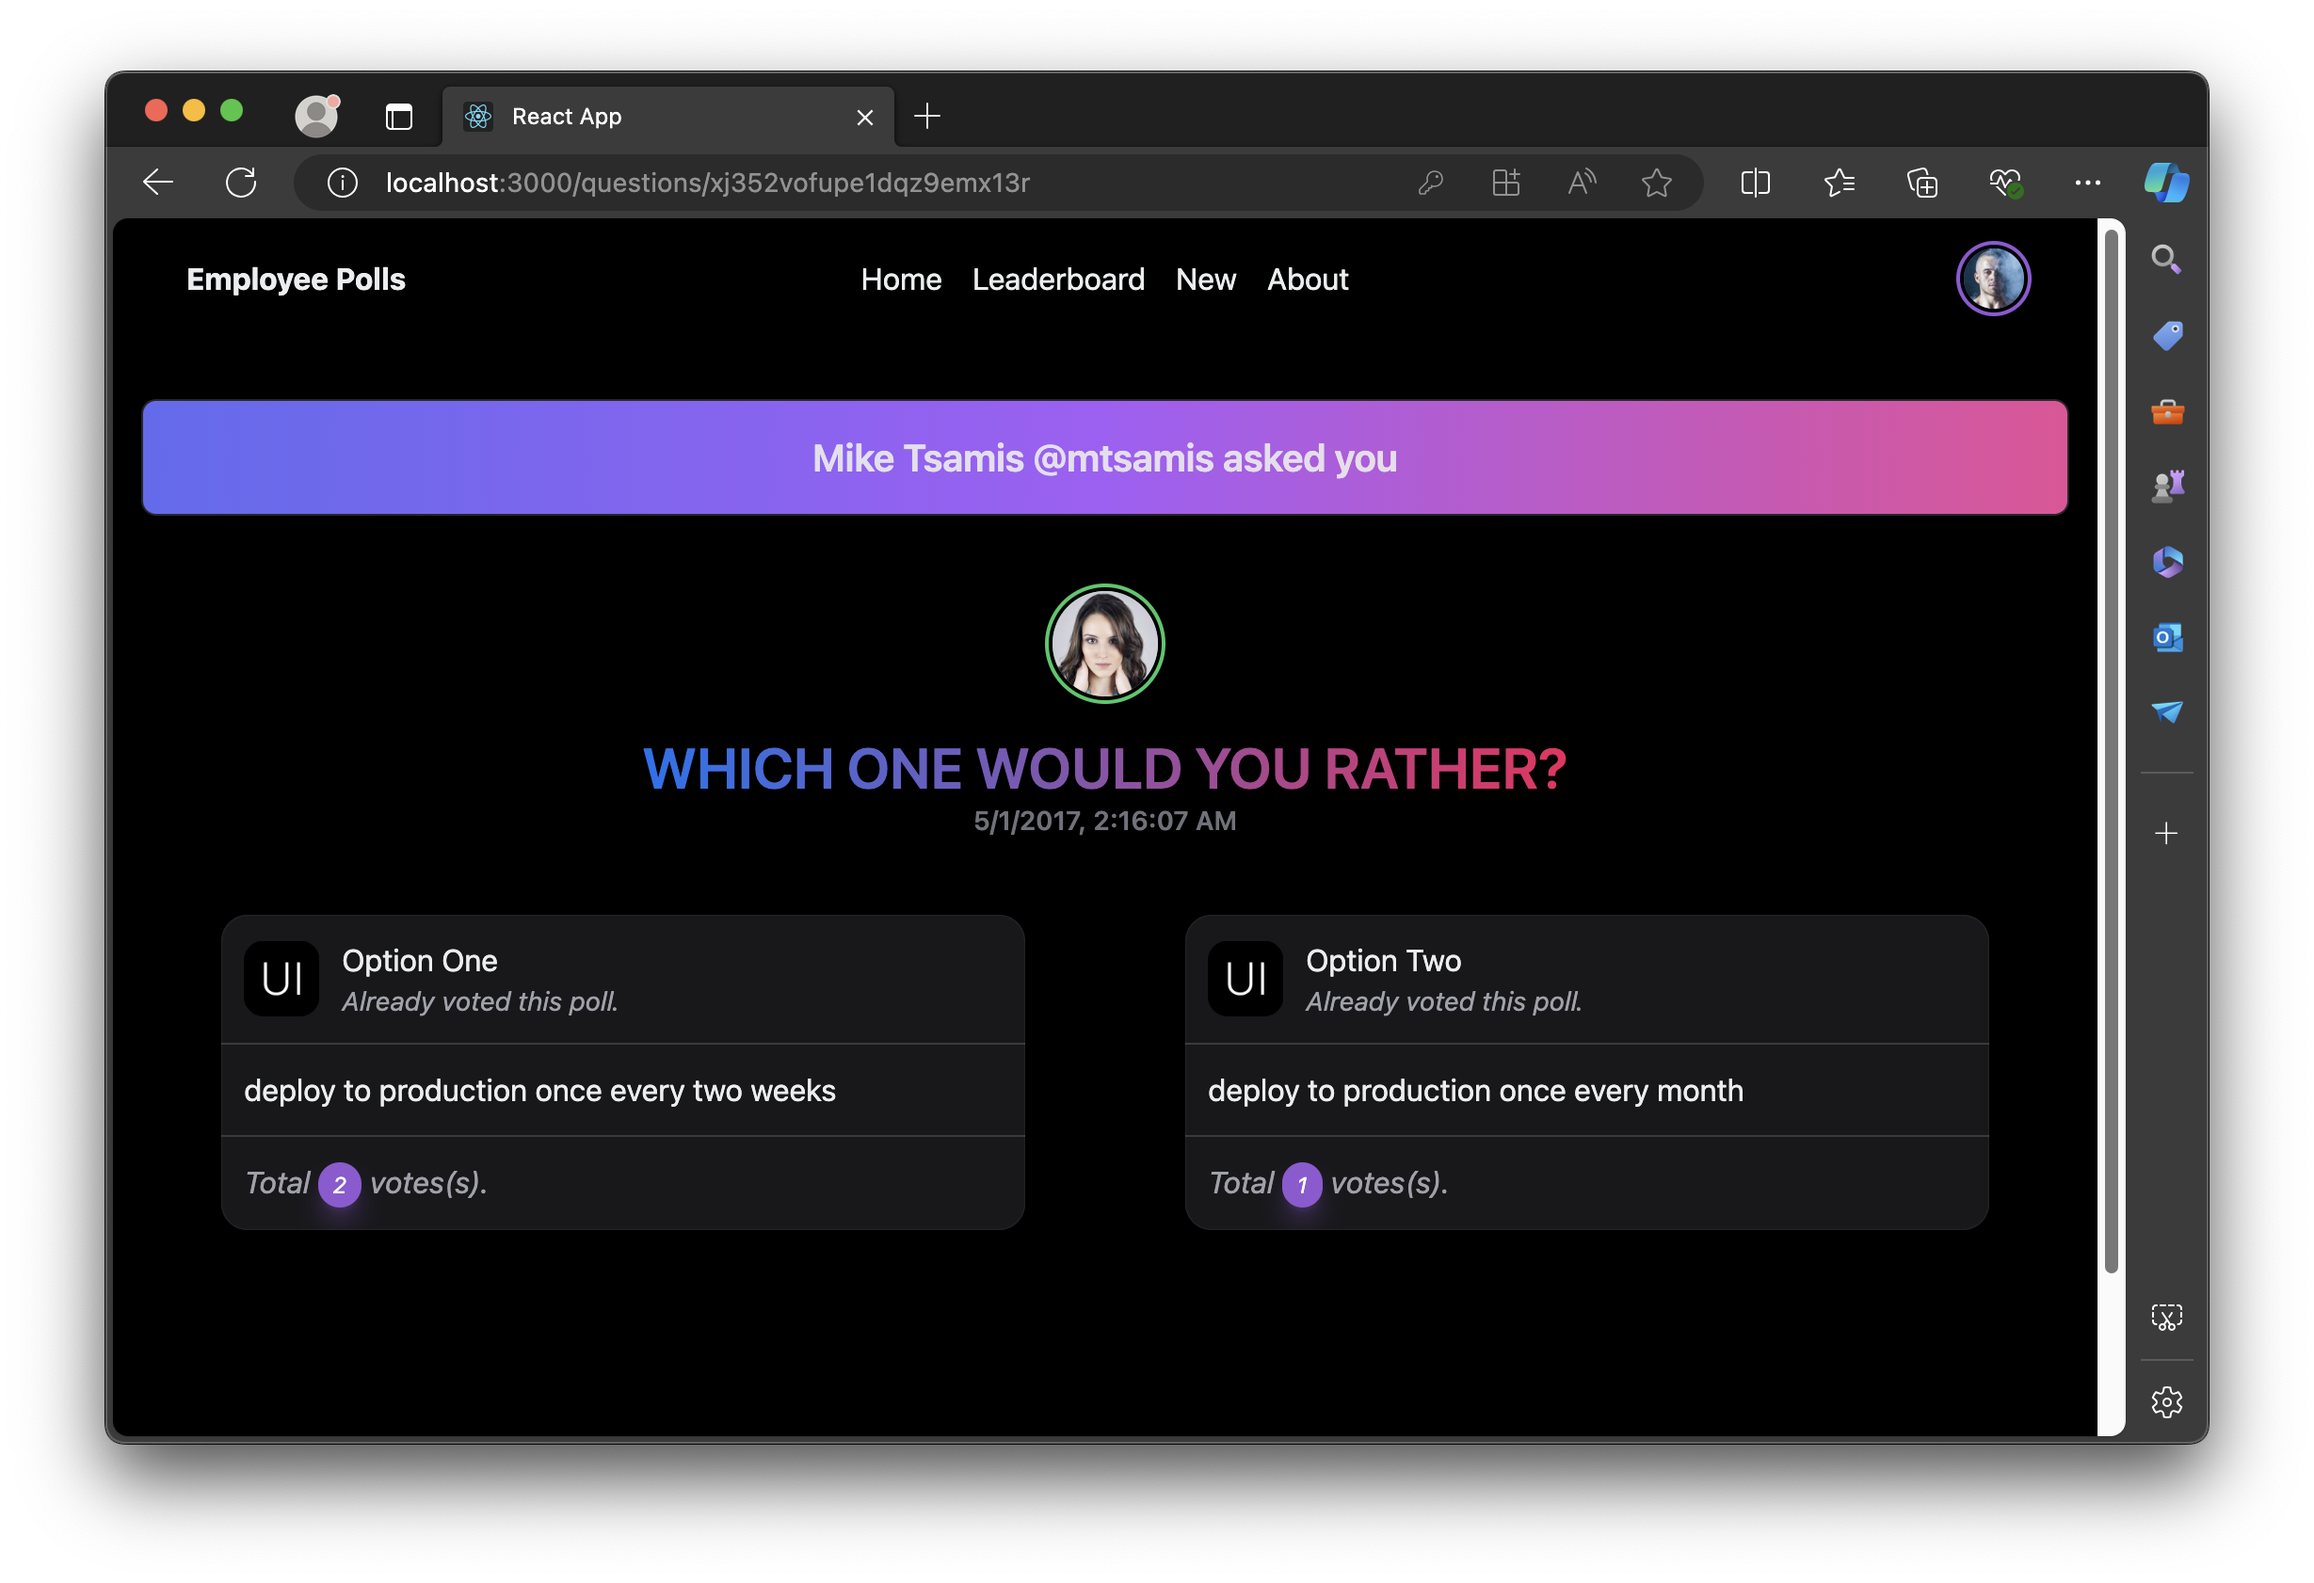
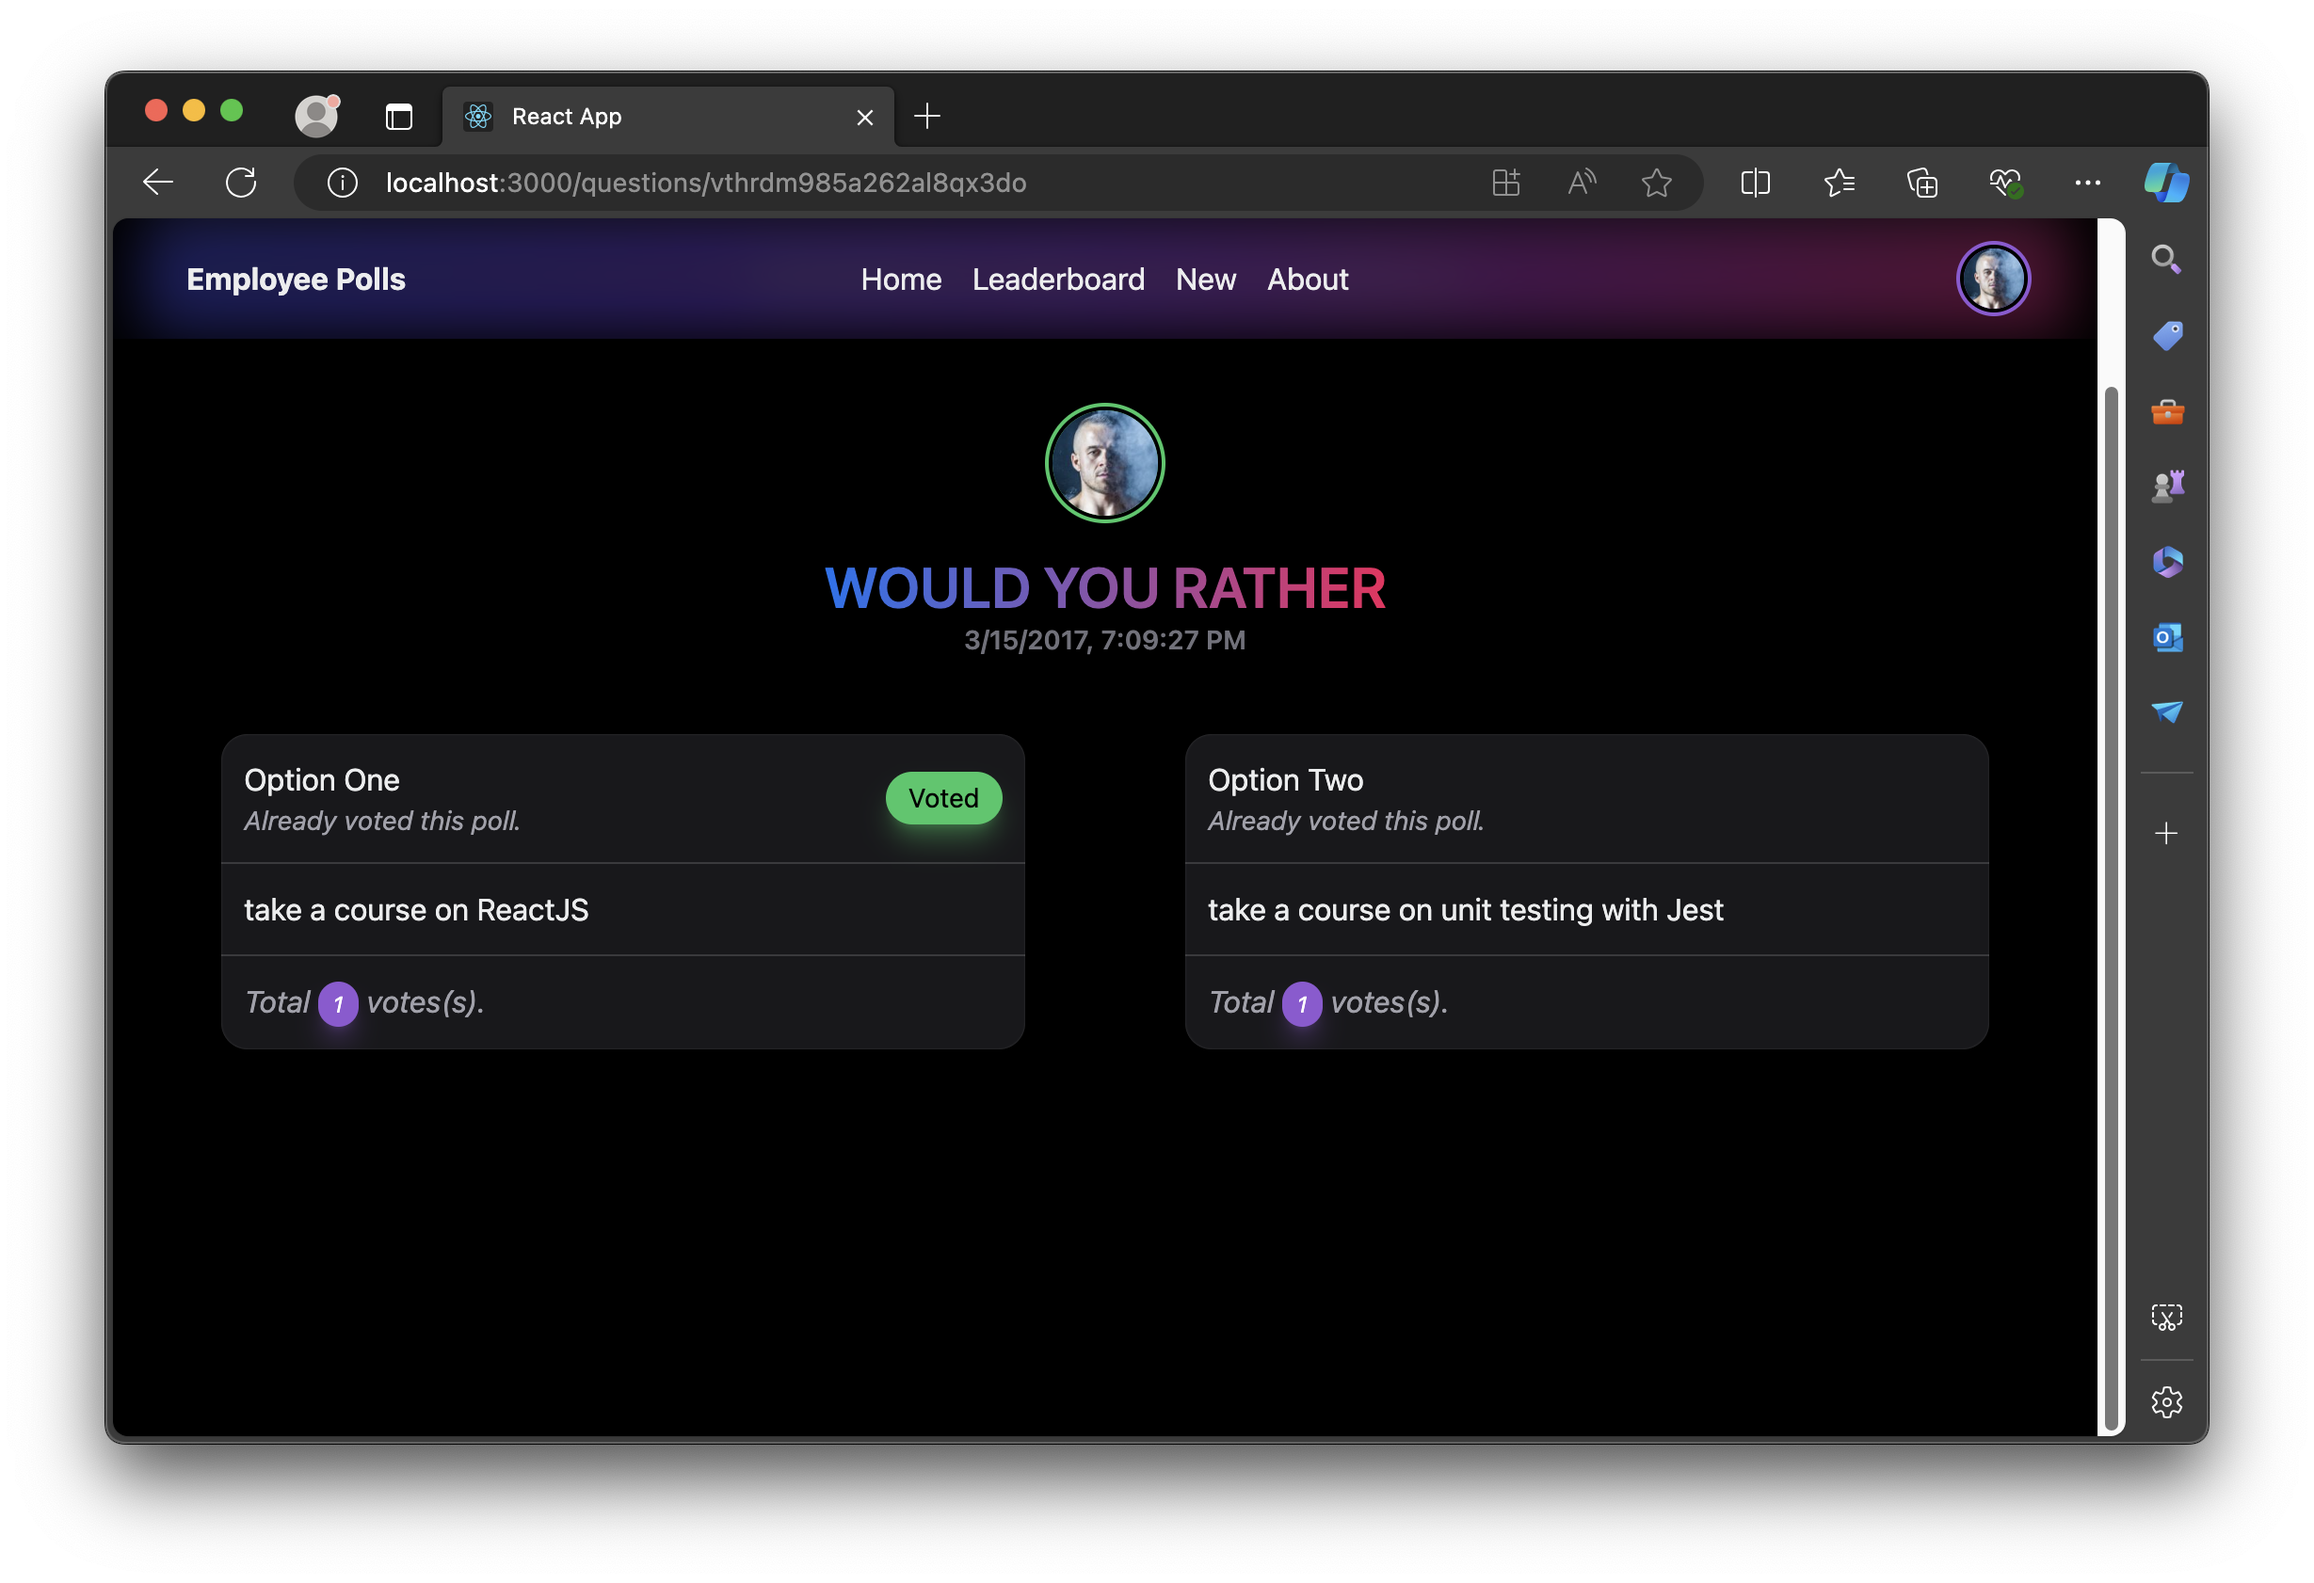
Fix bug vote

Changed region(s): [[0.0618, 0.2473, 0.8967, 0.8038], [0.0309, 0.0927, 0.9276, 0.2473], [0.8967, 0.8038, 0.9276, 0.8966]]

diff --git a/src/pages/QuestionDetails.js b/src/pages/QuestionDetails.js
@@ -16,7 +16,10 @@ function QuestionDetails() {
     const currUser = useSelector(authSelectors.selectValue);
     const question = useSelector(pollSelectors.selectQuestionById(pollId));
     const author = useSelector(userSelectors.selectUserInfoById(question.author));
-    const isVoted = [...question.optionOne.votes, ...question.optionTwo.votes].includes(currUser.id);
+
+    const isVotedFor1 = question.optionOne.votes.includes(currUser.id);
+    const isVotedFor2 = question.optionTwo.votes.includes(currUser.id);
+    const isVoted = isVotedFor1 || isVotedFor2;
 
     return (
         <Container>
@@ -24,7 +27,7 @@ function QuestionDetails() {
 
             <div className="flex flex-col justify-center items-center py-5">
                 <Avatar isBordered color="success" size="lg" src={author.avatarURL} />
-                <h3 className="text-3xl font-semibold mt-5 bg-gradient-to-r from-primary to-danger bg-clip-text text-transparent uppercase">Which one would you rather?</h3>
+                <h3 className="text-3xl font-semibold mt-5 bg-gradient-to-r from-primary to-danger bg-clip-text text-transparent uppercase">Would You Rather</h3>
                 <p className="font-semibold text-default-400 text-small">{(new Date(question.timestamp).toLocaleString())}</p>
             </div>
 
@@ -34,6 +37,7 @@ function QuestionDetails() {
                         pollId={pollId}
                         option={question.optionOne}
                         canBeVoted={!isVoted}
+                        isHighlight={isVotedFor1}
                         name={{ full: "Option One", short: "optionOne" }} />
                 </div>
 
@@ -42,6 +46,7 @@ function QuestionDetails() {
                         pollId={pollId}
                         option={question.optionTwo}
                         canBeVoted={!isVoted}
+                        isHighlight={isVotedFor2}
                         name={{ full: "Option Two", short: "optionTwo" }} />
                 </div>
             </div>

diff --git a/src/components/PollOption.js b/src/components/PollOption.js
@@ -6,7 +6,7 @@ import { useNavigate } from 'react-router-dom';
 
 export { PollOption };
 
-function PollOption({ pollId, name, option, canBeVoted }) {
+function PollOption({ pollId, name, option, canBeVoted, isHighlight }) {
 
     const dispatch = useDispatch();
     const auth = useSelector(authSelectors.selectValue);
@@ -22,18 +22,15 @@ function PollOption({ pollId, name, option, canBeVoted }) {
 
     return (
         <Card fullWidth isPressable onPress={canBeVoted ? handleClick : null}>
-            <CardHeader className="flex gap-3">
-                <Image
-                    alt="nextui logo"
-                    height={40}
-                    radius="sm"
-                    src="https://avatars.githubusercontent.com/u/86160567?s=200&v=4"
-                    width={40}
-                />
+            <CardHeader className="flex gap-3 justify-between">
                 <div className="flex flex-col items-start">
                     <p className="text-md">{name.full}</p>
                     <p className="text-small italic text-default-500">{canBeVoted ? "Click this card to vote." : "Already voted this poll."}</p>
                 </div>
+
+                {isHighlight
+                    ? <Chip color="success" variant="shadow">Voted</Chip>
+                    : null}
             </CardHeader>
             <Divider />
             <CardBody>
